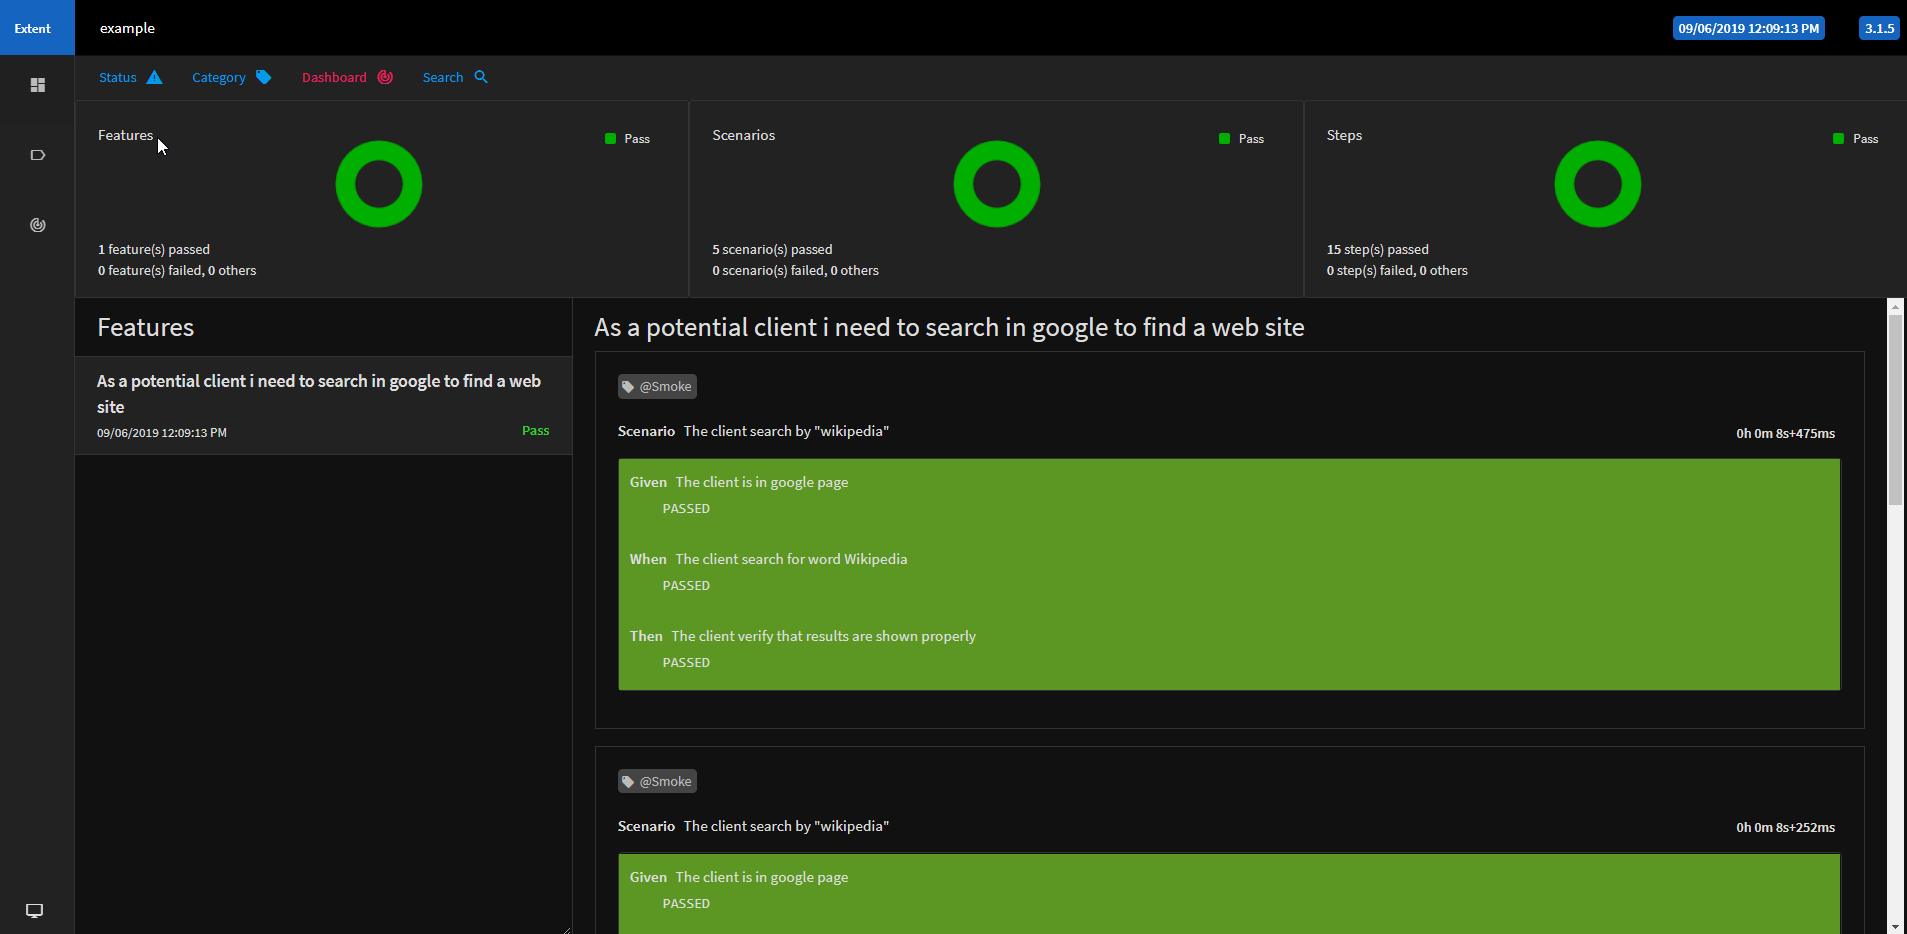
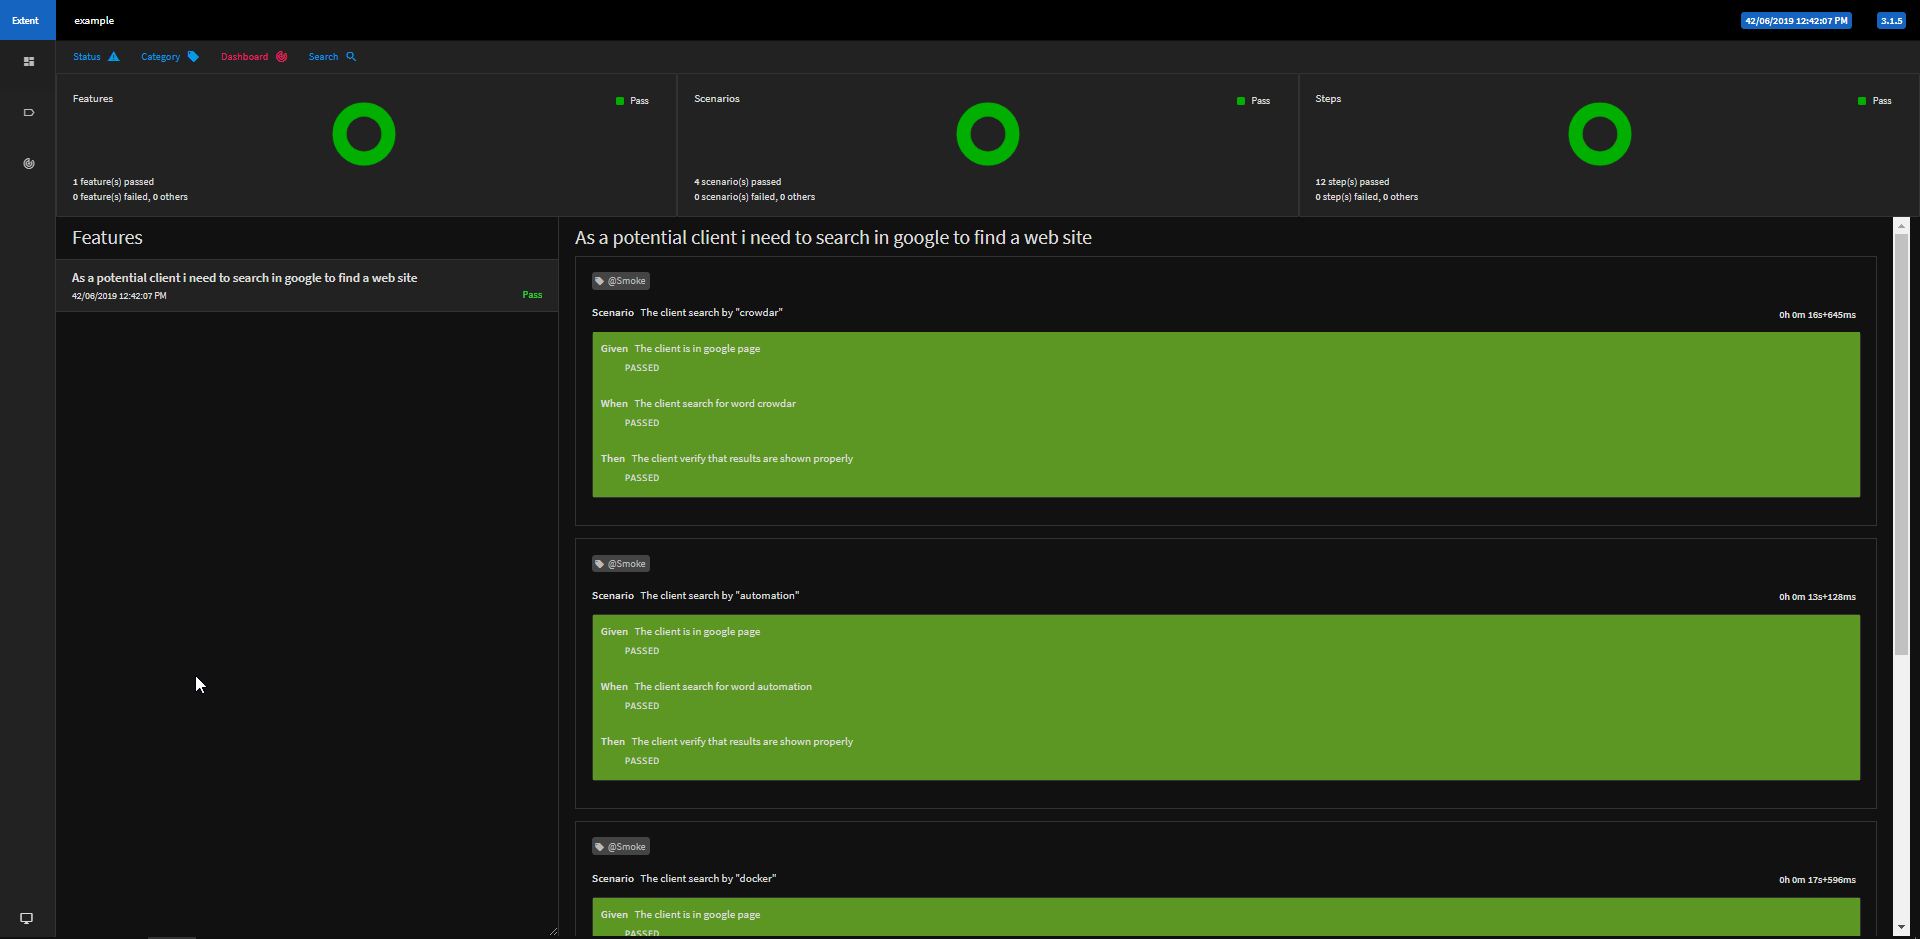
- upgrade report image - upgrade feature search criteria - clean obsolet locators

diff --git a/src/main/java/com/crowdar/examples/pages/SearchPage.java b/src/main/java/com/crowdar/examples/pages/SearchPage.java
@@ -6,8 +6,6 @@ import org.openqa.selenium.WebElement;
 
 public class SearchPage extends PageBaseExamples{
 
-    public WebElement inicioMenuLink(){return getWebElement(By.xpath("//a[@href='#home']"));}
-    public WebElement verMasLink(){return getWebElement(By.xpath("//a[@href='#brief']"));}
     public WebElement googleInput(){return getWebElement(By.xpath("//input[@class='gLFyf gsfi']"));}
     public WebElement googleSearchBtn(){return getWebElement(By.name("btnK"));}
 
@@ -20,13 +18,13 @@ public class SearchPage extends PageBaseExamples{
         navigateToIt();
     }
 
-    public void ingresarPalabra(String palabra){
+    public void enterSearchCriteria(String palabra){
         googleInput().clear();
         googleInput().sendKeys(palabra);
     }
 
-    public void presionarBotonDeBusqueda(){
-        googleSearchBtn().clear();
+    public void clickSearchButton(){
+        googleSearchBtn().click();
     }
 
 

diff --git a/src/main/java/com/crowdar/examples/steps/SearchSteps.java b/src/main/java/com/crowdar/examples/steps/SearchSteps.java
@@ -17,18 +17,19 @@ public class SearchSteps extends PageSteps {
     }
 
     @Given("The client is in google page")
-    public void elClienteEstaEnLaPaginaDeGoogle(){
+    public void home(){
         searchPage.goToInit();
     }
 
     @When("The client search for word (.*)")
-    public void elClienteIngresaUnaPalabraABuscar(String palabra){
-        searchPage.ingresarPalabra(palabra);
+    public void search(String criteria){
+        searchPage.enterSearchCriteria(criteria);
+		searchPage.clickSearchButton();
 
     }
 
     @Then("The client verify that results are shown properly")
-    public void elClienteObservaLaInformacionRelevanteSobreCrowdar(){
-
+    public void verfication(){
+	
     }
 }
